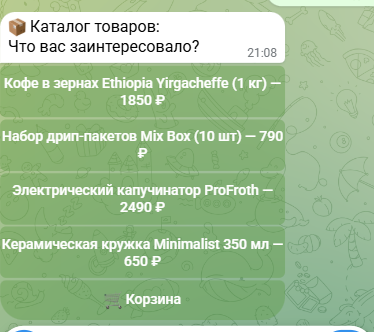
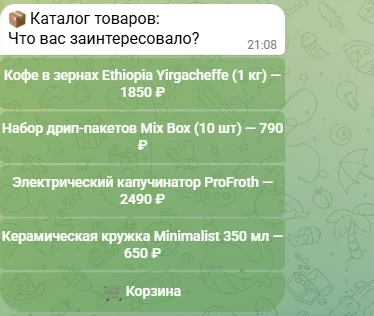
Кадры ботов без обрезков, с полями

diff --git a/index.html b/index.html
@@ -48,9 +48,9 @@
       <div class="секция-шапка секция-шапка-работы"><div><p class="надстрочник"><span class="точка"></span> Работы</p><h2 id="заголовок-работ">Посмотрите,<br>как это устроено.</h2></div><p class="происхождение">Вот что уже сделано и работает.</p></div>
       <div class="карточки-работ">
         <!-- ТЕКСТ:работы:начало -->
-<article class="работа работа-бот" data-case-id="12" data-bot-card="zayavki"><div class="работа-медиа"><figure><img src="кадры/zayavki.webp" width="374" height="227" alt="Бот приёма заявок в чате Telegram" loading="lazy"></figure></div><div class="работа-текст"><p class="работа-мета"><span class="работа-номер">01</span><span>Telegram</span></p><h3>Бот приёма заявок</h3><p class="работа-описание">Клиент пишет в Telegram — бот спрашивает имя, телефон, задачу и фото.</p><p class="работа-описание">Вы получаете готовую заявку с контактом и описанием.</p><a class="кнопка кнопка-светлая" href="https://t.me/PartialisZayavkiDemoBot" target="_blank" rel="noopener">Открыть бота <span class="кнопка-стрелка" aria-hidden="true">↗</span></a></div></article>
-<article class="работа работа-бот" data-case-id="12" data-bot-card="zapis"><div class="работа-медиа"><figure><img src="кадры/zapis.webp" width="374" height="329" alt="Бот записи на услугу в чате Telegram" loading="lazy"></figure></div><div class="работа-текст"><p class="работа-мета"><span class="работа-номер">02</span><span>Telegram</span></p><h3>Бот записи на услугу</h3><p class="работа-описание">Клиент выбирает услугу, мастера, дату и время прямо в чате.</p><p class="работа-описание">Вы видите подтверждённую запись со всеми деталями.</p><a class="кнопка кнопка-светлая" href="https://t.me/PartialisZapisDemoBot" target="_blank" rel="noopener">Открыть бота <span class="кнопка-стрелка" aria-hidden="true">↗</span></a></div></article>
-<article class="работа работа-бот" data-case-id="12" data-bot-card="magazin"><div class="работа-медиа"><figure><img src="кадры/magazin.webp" width="374" height="332" alt="Бот-магазин в чате Telegram" loading="lazy"></figure></div><div class="работа-текст"><p class="работа-мета"><span class="работа-номер">03</span><span>Telegram</span></p><h3>Бот-магазин</h3><p class="работа-описание">Клиент листает товары, собирает корзину и оформляет заказ в Telegram.</p><p class="работа-описание">Вы получаете заказ с позициями и количеством.</p><a class="кнопка кнопка-светлая" href="https://t.me/PartialisMagazinDemoBot" target="_blank" rel="noopener">Открыть бота <span class="кнопка-стрелка" aria-hidden="true">↗</span></a></div></article>
+<article class="работа работа-бот" data-case-id="12" data-bot-card="zayavki"><div class="работа-медиа"><figure><img src="кадры/zayavki.webp" width="374" height="211" alt="Бот приёма заявок в чате Telegram" loading="lazy"></figure></div><div class="работа-текст"><p class="работа-мета"><span class="работа-номер">01</span><span>Telegram</span></p><h3>Бот приёма заявок</h3><p class="работа-описание">Клиент пишет в Telegram — бот спрашивает имя, телефон, задачу и фото.</p><p class="работа-описание">Вы получаете готовую заявку с контактом и описанием.</p><a class="кнопка кнопка-светлая" href="https://t.me/PartialisZayavkiDemoBot" target="_blank" rel="noopener">Открыть бота <span class="кнопка-стрелка" aria-hidden="true">↗</span></a></div></article>
+<article class="работа работа-бот" data-case-id="12" data-bot-card="zapis"><div class="работа-медиа"><figure><img src="кадры/zapis.webp" width="374" height="314" alt="Бот записи на услугу в чате Telegram" loading="lazy"></figure></div><div class="работа-текст"><p class="работа-мета"><span class="работа-номер">02</span><span>Telegram</span></p><h3>Бот записи на услугу</h3><p class="работа-описание">Клиент выбирает услугу, мастера, дату и время прямо в чате.</p><p class="работа-описание">Вы видите подтверждённую запись со всеми деталями.</p><a class="кнопка кнопка-светлая" href="https://t.me/PartialisZapisDemoBot" target="_blank" rel="noopener">Открыть бота <span class="кнопка-стрелка" aria-hidden="true">↗</span></a></div></article>
+<article class="работа работа-бот" data-case-id="12" data-bot-card="magazin"><div class="работа-медиа"><figure><img src="кадры/magazin.webp" width="374" height="316" alt="Бот-магазин в чате Telegram" loading="lazy"></figure></div><div class="работа-текст"><p class="работа-мета"><span class="работа-номер">03</span><span>Telegram</span></p><h3>Бот-магазин</h3><p class="работа-описание">Клиент листает товары, собирает корзину и оформляет заказ в Telegram.</p><p class="работа-описание">Вы получаете заказ с позициями и количеством.</p><a class="кнопка кнопка-светлая" href="https://t.me/PartialisMagazinDemoBot" target="_blank" rel="noopener">Открыть бота <span class="кнопка-стрелка" aria-hidden="true">↗</span></a></div></article>
 <article class="работа работа-каталог" data-case-id="4"><div class="работа-текст"><p class="работа-мета"><span class="работа-номер">04</span><span>Таблица товаров</span></p><h3>Сбор карточек каталога</h3><p class="работа-описание">Таблица товаров книжного каталога: название, цена, наличие и ссылка на каждую позицию.</p></div><div class="работа-медиа"><figure><img src="снимки/каталог_пример.jpg" width="1280" height="552" alt="Таблица с карточками каталога товаров." loading="lazy"></figure></div></article>
 <!-- ТЕКСТ:работы:конец -->
       </div>

diff --git a/стиль.css b/стиль.css
@@ -92,6 +92,9 @@ h1 em, h2 em { color: #627b3a; font-weight: 400; }
 .работа-медиа-кнопка { min-height: 132px; display: flex; flex-direction: column; align-items: stretch; justify-content: center; gap: 10px; }
 .работа-медиа-кнопка .кнопка { max-width: 100%; width: 100%; justify-content: space-between; white-space: nowrap; }
 .работа-медиа figure { margin: 0; overflow: hidden; border-radius: 16px; background: #f4f4f1; }
+/* 01.10: кадр чата вырезан по пузырю и на сайте выглядел оборванным (владелец: «Чё за обрезка»). Поля на фоне цвета чата. */
+.работа-бот .работа-медиа figure { padding: 14px 9px 16px; background: #aec7a0; }
+.работа-бот .работа-медиа img { display: block; border-radius: 4px; }
 .работа-медиа img { width: 100%; height: auto; object-fit: contain; }
 .работа-медиа figcaption { padding: 10px 12px 11px; color: #536059; background: #f4f4f1; font-size: 11px; line-height: 1.4; }
 .этапы { max-width: 900px; margin: 0 0 0 auto; padding: 0; list-style: none; border-top: 1px solid var(--линия); }
